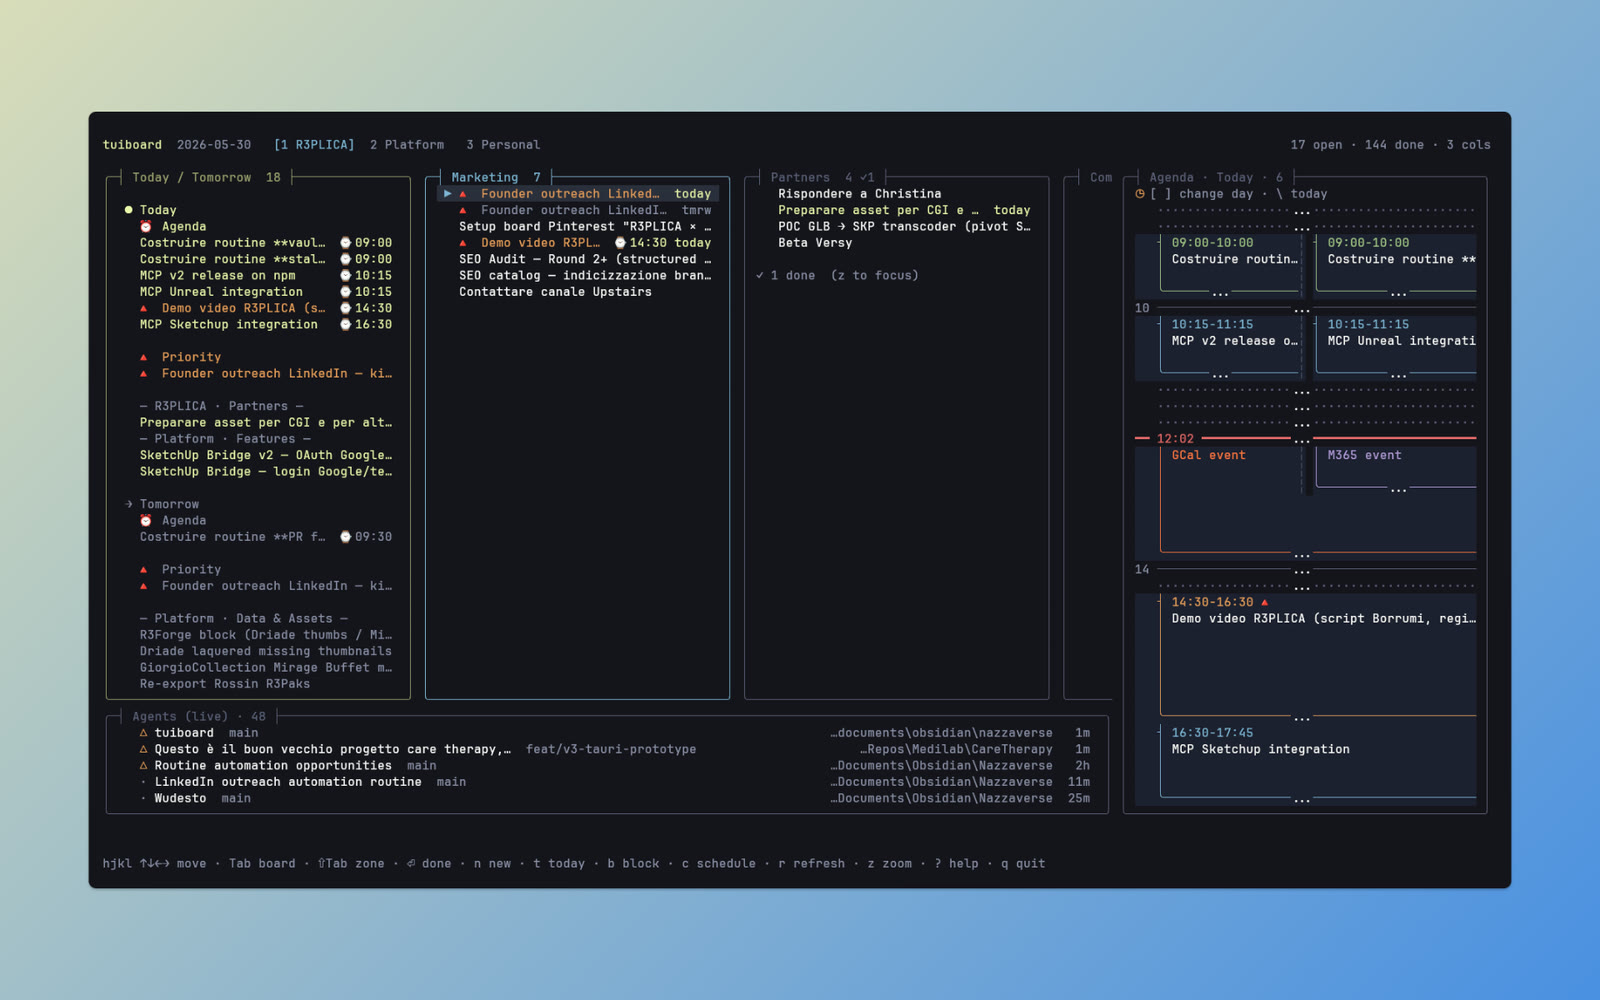
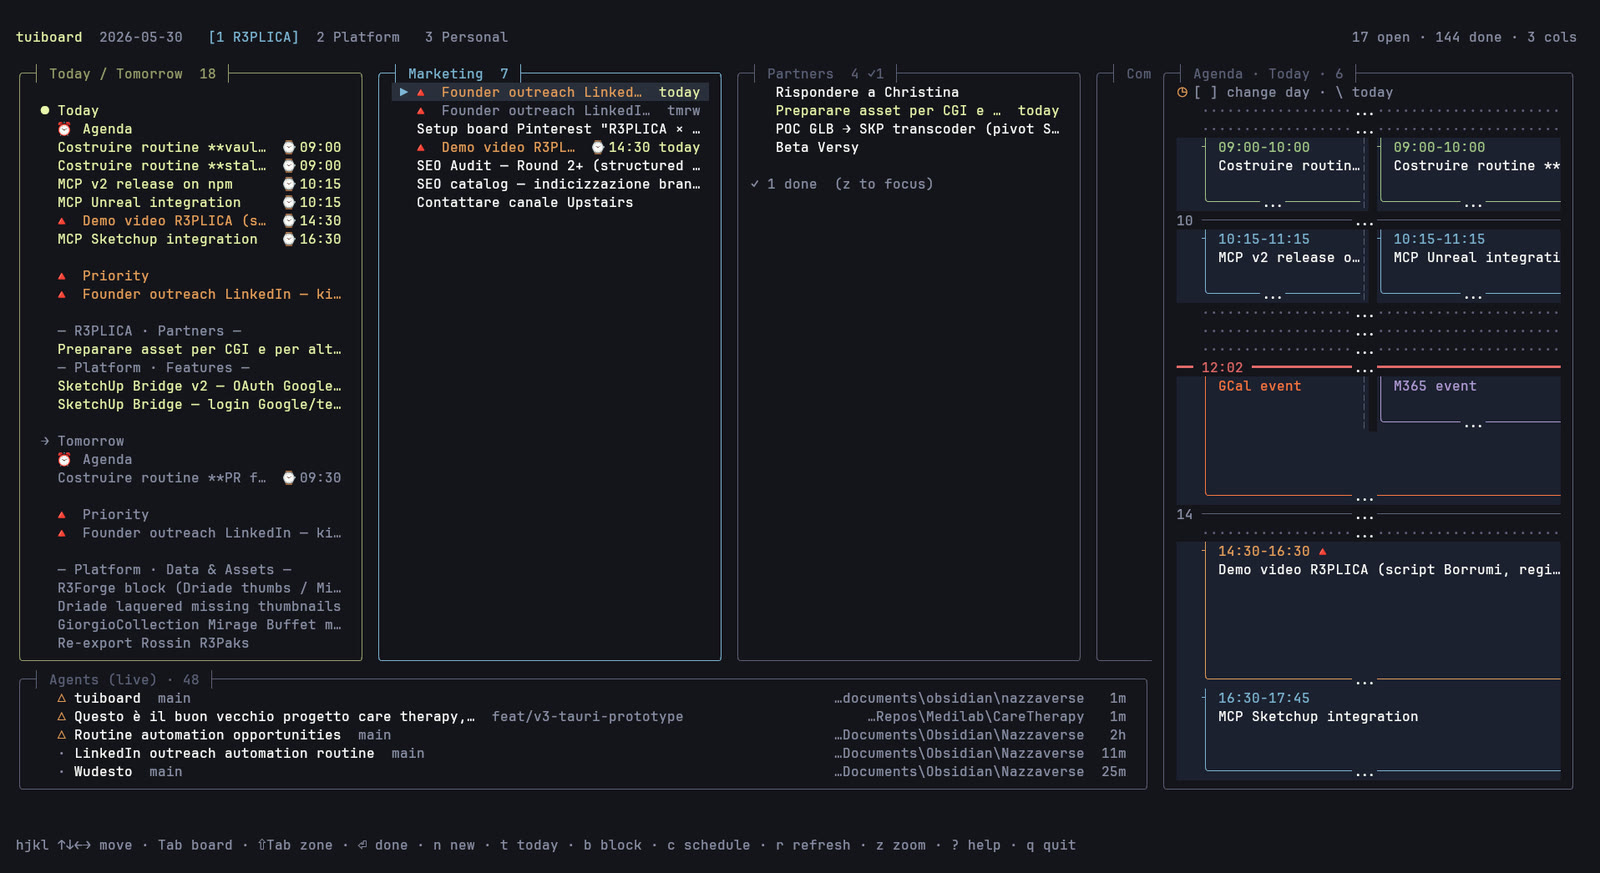
assets: background-free terminal screenshot + soft glow on the showcase
Swap the showcase/OG image for the chrome-free terminal capture (1600px JPEG,
~230 KB) that blends into the page bg, and add a soft blue/yellow glow so it
floats.

diff --git a/css/style.css b/css/style.css
@@ -242,10 +242,18 @@ h2 { font-size: clamp(22px, 3vw, 32px); line-height: 1.2; font-weight: 700; marg
 
 /* ============================== SHOWCASE ============================== */
 .showcase { padding: clamp(40px, 7vh, 80px) 0; }
-.showcase__frame { max-width: 1000px; margin-inline: auto; }
+.showcase__frame {
+  max-width: 1000px; margin-inline: auto;
+  /* the screenshot is background-free (matches the page), so a soft glow lets
+     the terminal "float" off the page instead of blending into it. */
+  box-shadow:
+    0 0 0 1px var(--hair),
+    0 30px 90px -45px rgba(126, 182, 214, 0.45),
+    0 0 80px -24px rgba(234, 246, 173, 0.10);
+}
 .showcase__img { position: relative; width: 100%; background: var(--bg); }
 .showcase__img img { display: block; width: 100%; height: auto; }
-.showcase__img.is-empty { aspect-ratio: 16 / 10; }
+.showcase__img.is-empty { aspect-ratio: 1600 / 873; }
 .showcase__img.is-empty img { display: none; }
 .showcase__img .shot__placeholder { display: none; }
 .showcase__img.is-empty .shot__placeholder { display: flex; }

diff --git a/index.html b/index.html
@@ -147,7 +147,7 @@
     <div class="term termframe showcase__frame" data-reveal>
       <div class="term__bar"><span class="term__dots" aria-hidden="true"><i></i><i></i><i></i></span><span class="term__file">tuiboard — the whole dashboard</span></div>
       <div class="showcase__img">
-        <img src="assets/dashboard.jpg" alt="tuiboard full dashboard — kanban board, Today/Tomorrow planner, 24-hour agenda with calendar overlay, and live Claude Code agents, all in one terminal" loading="lazy" width="1600" height="1000" onerror="this.closest('.showcase__img').classList.add('is-empty')" />
+        <img src="assets/dashboard.jpg" alt="tuiboard full dashboard — kanban board, Today/Tomorrow planner, 24-hour agenda with calendar overlay, and live Claude Code agents, all in one terminal" loading="lazy" width="1600" height="873" onerror="this.closest('.showcase__img').classList.add('is-empty')" />
         <span class="shot__placeholder">[ screenshot: full dashboard — drop assets/dashboard.png ]</span>
       </div>
     </div>